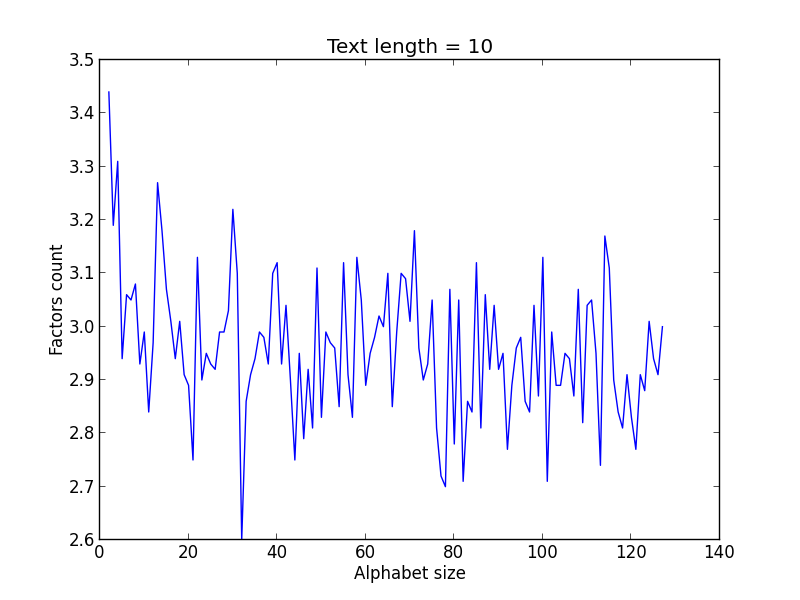
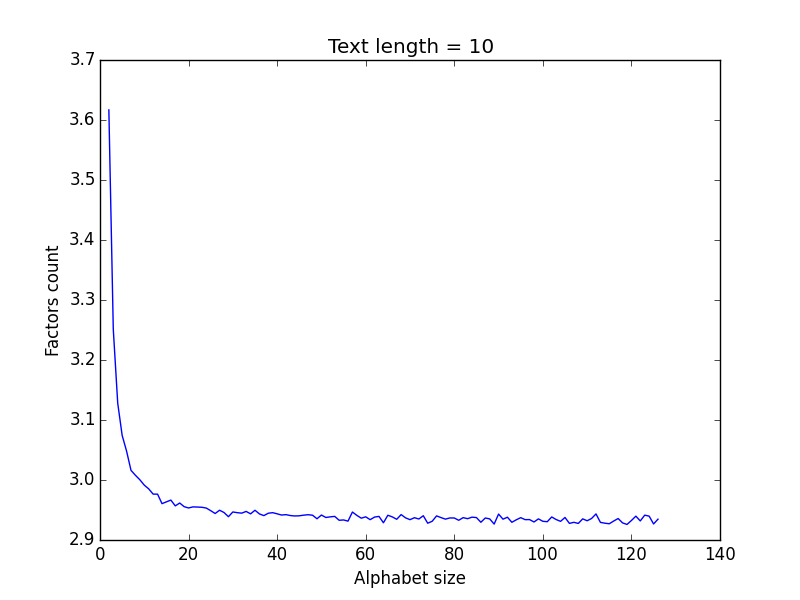
smooth graphs for text lengths

diff --git a/src/py/graph.py b/src/py/graph.py
@@ -4,12 +4,14 @@ from collections import defaultdict
 
 import pylab as pl
 import numpy as np
-from scipy.interpolate import spline
 
 if __name__ == '__main__':
+    # you can see a lot of hard-coded numbers here
+    # because this script is used for creating
+    # nice figures only
     counts = defaultdict(lambda: defaultdict(float))
     print 'Reading...'
-    with open('../../result.txt') as fd:
+    with open('../../result_lengths.txt') as fd:
         reader = csv.reader(fd, delimiter=' ')
         try:
             while True:
@@ -31,7 +33,6 @@ if __name__ == '__main__':
         step = 10
         lengths = range(2, 50) + range(50, 1001, step)
         for alphabet_size in [2, 3, 5, 10, 100]:
-            print 'Alphabet size:', alphabet_size
             values = []
             for i, length in enumerate(lengths[:-1]):
                 values.append(np.average(
@@ -44,14 +45,37 @@ if __name__ == '__main__':
         pl.savefig('../../results/alphabets-smooth.png')
         pl.clf()
 
-        for length in [10, 100, 500, 999]:
-            print 'Plotting for word length {}...'.format(length)
+        for length in [10, 100] + range(200, 1001, 200):
+            sizes = sorted(counts)
+            pl.plot(sizes, map(lambda x: counts[x][length], sizes), label='$n = {}$'.format(length))
+        pl.legend(loc=4)
+        pl.xlabel('Alphabet size')
+        pl.ylabel('Factors count')
+        pl.savefig('../../results/lengths.png')
+        pl.clf()
+
+        for length in [10, 100, 500, 1000]:
             sizes = sorted(counts)
             pl.plot(sizes, map(lambda x: counts[x][length], sizes))
             pl.title('Text length = {}'.format(length))
             pl.xlabel('Alphabet size')
             pl.ylabel('Factors count')
             pl.savefig('../../results/length-{}.png'.format(length))
+            pl.clf()
+
+        for length in [10, 100, 500, 1000]:
+            step = 10
+            sizes = range(2, 10) + range(10, 101, step)
+            values = []
+            for i, size in enumerate(sizes[:-1]):
+                values.append(np.average(
+                    map(lambda x: counts[x][length], xrange(size, sizes[i + 1]))
+                ))
+            pl.plot(range(2, 10) + range(15, 101, 10), values)
+            pl.title('Text length = {}'.format(length))
+            pl.xlabel('Alphabet size')
+            pl.ylabel('Factors count')
+            pl.savefig('../../results/smooth-length-{}.png'.format(length))
             pl.clf()
 
     genom_counts = defaultdict(list)

diff --git a/src/exp.c b/src/exp.c
@@ -5,7 +5,8 @@
 #include "algo/duval.h"
 
 #define LENGTH 1000
-#define EXPERIMENTS 10000
+#define EXPERIMENTS 100000
+#define ALPHABET_SIZE 127
 
 char *rand_string(char *str, int n, int alphabet_size) {
     for (int i = 0; i < n; ++i) {
@@ -31,8 +32,8 @@ void test_duval_and_naive_results_equality() {
     free(text);
 }
 
-void save_random_strings_results() {
-    freopen("/Users/alonger/HSE/stringology/strlib/result.txt", "wt", stdout);
+void save_random_strings_results_for_alphabets() {
+    freopen("/Users/alonger/HSE/stringology/strlib/result_alphabets.txt", "wt", stdout);
     int * buffer = calloc(LENGTH + 1, sizeof(int));
     char * text = calloc(LENGTH + 1, sizeof(char));
 
@@ -40,6 +41,26 @@ void save_random_strings_results() {
     for (int i = 0; i < 13; ++i) {
         int alphabet_size = alphabet_sizes[i];
         for (int length = 2; length < LENGTH; ++length) {
+            printf("%d %d\n", alphabet_size, length);
+            for (int exp = 0; exp < EXPERIMENTS; ++exp) {
+                printf("%d ", duval(rand_string(text, length, alphabet_size), buffer));
+            }
+            printf("\n");
+        }
+    }
+    free(buffer);
+}
+
+
+void save_random_strings_results_for_lengths() {
+    freopen("/Users/alonger/HSE/stringology/strlib/result_lengths.txt", "wt", stdout);
+    int * buffer = calloc(LENGTH + 1, sizeof(int));
+    char * text = calloc(LENGTH + 1, sizeof(char));
+    int lengths[11] = {10,100,200,300,400,500,600,700,800,900,1000};
+
+    for (int alphabet_size = 2; alphabet_size < ALPHABET_SIZE; ++alphabet_size) {
+        for (int i = 0; i < 11; ++i) {
+            int length = lengths[i];
             printf("%d %d\n", alphabet_size, length);
             for (int exp = 0; exp < EXPERIMENTS; ++exp) {
                 printf("%d ", duval(rand_string(text, length, alphabet_size), buffer));
@@ -76,6 +97,6 @@ void save_ecoli_results() {
 }
 
 int main(int argc, char** argv) {
-    save_random_strings_results();
+    save_random_strings_results_for_lengths();
     return 0;
 }
